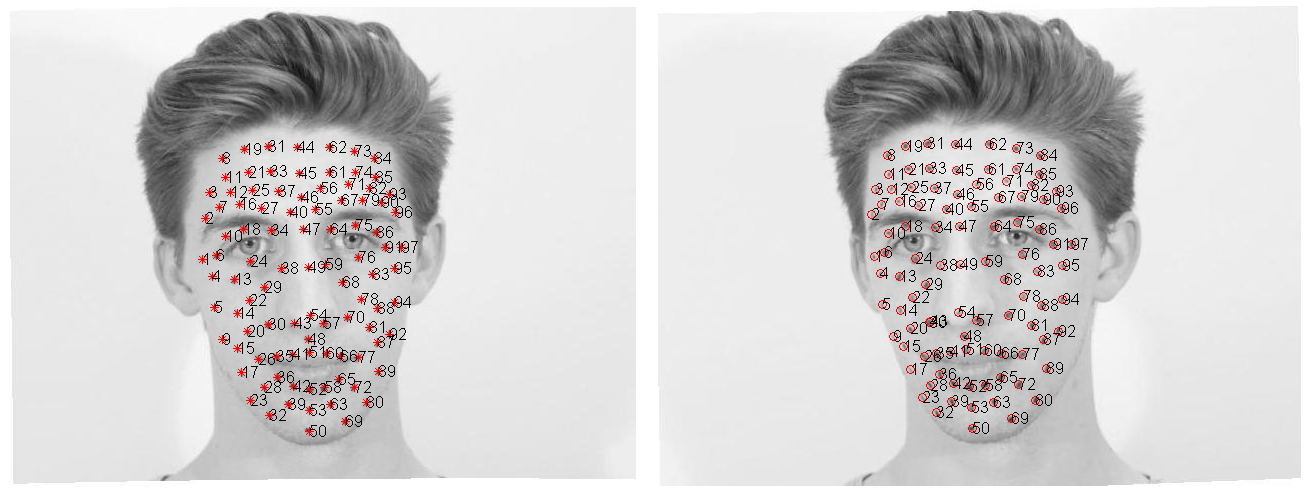
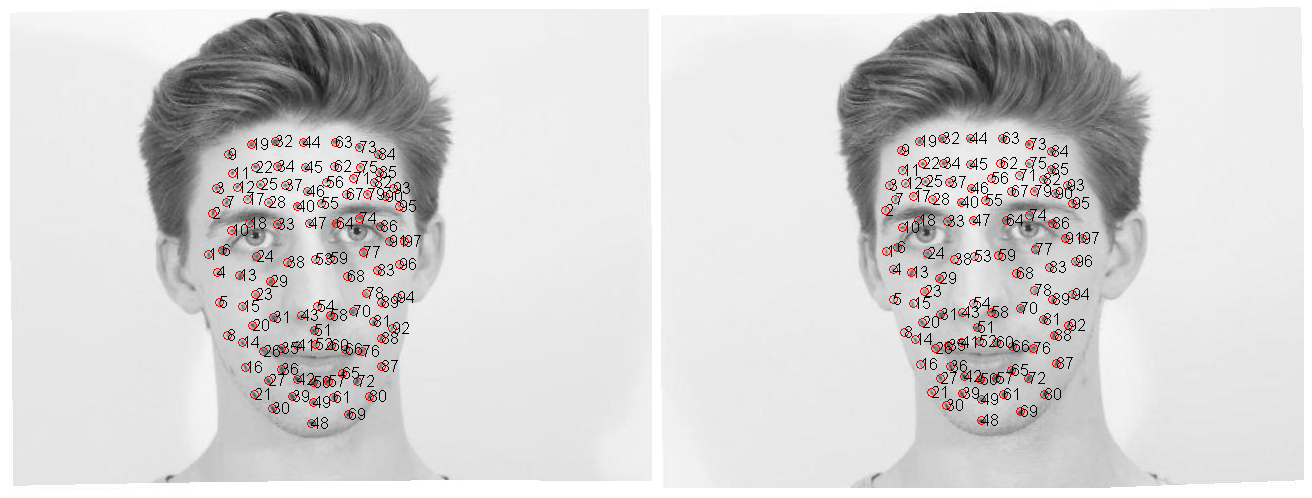
Added to my section, changed some images

Changed region(s): [[0.6107, 0.0, 0.8855, 0.9054], [0.0916, 0.0302, 0.3359, 0.9054], [0.6412, 0.9356, 0.6718, 0.9658]]

diff --git a/Report/v1/methodology.tex b/Report/v1/methodology.tex
@@ -14,28 +14,28 @@ This section presents the methodology behind our proposed facial performance cap
 \section{Data Capture} 
 \label{sec:datacapture}
 
-The first task was to gather some initial input data for the system by recording the facial performance of an actor in the form of a video sequence. Two DSLR cameras were positioned close to the actor's face in a stereo configuration in order to capture the actor's facial performance, as shown in Figure \ref{fig:setup1}. A short sequence, consisting of the actor pulling a number of facial expressions and then talking, was recorded on video with a resolution of $640 \times 480$ at 60fps. The video streams were roughly synchronised afterwards during post-processing in the computer by aligning the two separate audio signals. A relatively low image resolution was chosen in order to try to limit the amount of video data we had to deal with, especially when recording sequences at higher frame-rates. The cameras were fixed on stands to prevent any camera-shake during the performance capture session and calibration process - since it is important that the camera positions remain static for accurate 3D reconstruction. Positioning the cameras close to one another, at approximately 10cm horizontal separation and at a distance of about 1m from the subject, meant that the images from both views would be quite similar - allowing for easier feature matching across the two images. However, the camera spacing was sufficiently large to enable both sides of the face to be in view, and to allow for triangulation of points on the actor's face; a good rule of thumb is for the cameras and subject to subtend an angle of at least 5 degrees.
+The first task was to gather some initial input data for the system by recording the facial performance of an actor in the form of a video sequence. Two DSLR cameras were positioned close to the actor's face in a stereo configuration in order to capture the actor's facial performance, as shown in Figure \ref{fig:setup1}. A short sequence, consisting of the actor pulling a number of facial expressions and then talking, was recorded on video with a resolution of $640 \times 480$ at 60fps. The video streams were roughly synchronised afterwards during a post-processing stage in the computer by aligning the two separate audio signals. The video was also converted into an image sequence of jpeg images. A relatively low image resolution was chosen in order to try to limit the amount of video data we had to deal with, especially when recording multiple sequences at high frame-rates. The cameras were fixed on stands to prevent any camera-shake during the performance capture session and calibration process - since it is important that the camera positions remain static for accurate 3D reconstruction. Positioning the cameras close to one another, at approximately 10cm horizontal separation and at a distance of about 1m from the subject, meant that the images from both views would be quite similar - allowing for easier feature matching across the two images. However, the camera spacing was sufficiently large to enable both sides of the face to be in view, and to allow for 3D triangulation of points on the actor's face; a good rule of thumb is for the cameras and subject to subtend an angle of at least 5 degrees. A limitation with the capture system was observed that if the actor rotated his/her head significantly, then one side of the face would be occluded, making detection and reconstruction of some marker points on the face a problem. In a future implementation it would be better to use three cameras - one straight on and the other two slightly to the sides, so that all points on the face can always be seen by at least two cameras.
 
 \begin{figure}[htbp!]
 \centering
 \includegraphics[width=\textwidth]{img/setup1}
-	\caption{The stereo camera setup used to capture the facial performance.}
+	\caption{The stereo camera setup used to capture the actor's facial performance.}
 	\label{fig:setup1}
 \end{figure}
 
-Markers used to track the facial performance were placed on the actor's face in the configuration shown in Figure \ref{fig:facemarkers}. 97 markers were used in total, and were drawn onto the actor's face with a make-up pencil so as to be easily removed after the capture session. The positions of the markers were roughly based on those used in the Surrey Audio-Visual Expressed Emotion (SAVEE) Database ~\cite{Surrey}, as shown in Figure \ref{fig:surreydata}, although they use fewer markers with just 60 in total. In hindsight, using slightly fewer number of markers in our system might have been preferable, as consistently detecting and tracking a large number of markers (and preserving the labelling order of the markers) became quite a time-consuming and labour intensive process, prone to error. Furthermore, rather than simply using a black pencil, it might have advantageous to use markers of a significantly different colour to the tones of the human face in order to aid marker detection and tracking, or perhaps even using retro-reflective markers as in many commercial motion capture systems ~\cite{Vicon}.
+Markers used to track the facial performance were placed on the actor's face in the configuration shown in Figure \ref{fig:facemarkers}. 97 markers were used in total, and were drawn onto the actor's face with a make-up pencil so as to be easily removed after the capture session. The positions of the markers were roughly based on those used in the Surrey Audio-Visual Expressed Emotion (SAVEE) Database ~\cite{Surrey}, as shown in Figure \ref{fig:surreydata}, although they use fewer markers with just 60 in total. In hindsight, using slightly fewer number of markers in our system might have been preferable, as consistently detecting and tracking a large number of markers (and preserving the labelling order of the markers) became quite a time-consuming and labour intensive process, prone to error. Furthermore, rather than simply using a black pencil, it might have advantageous to use markers of a significantly different colour to the tones of the human face in order to aid marker detection and tracking (by colour segmentation), or perhaps even using retro-reflective markers as in many commercial motion capture systems ~\cite{Vicon}.
 
-Although the markers were placed all over the face to capture full facial performance, we tried to ensure that specific markers were placed in positions on the face which exhibit large non-rigid deformation, such as around the eyes, around the mouth and along the eye-brows, in order capture the full expressiveness of the face. In a future implementation, it would be useful to track the rigid head motion by tracking the positions of a number points on the head of the actor, for example by making the actor wear a skull cap with markers. Another useful addition would be to somehow track the eyelids so we can capture subtle eye movements and blinks. Also, since we only track points on the outside of the mouth, we do not gather information about the lip movement, such as expressions involving pursing or funnelling of the lips, etc.
+Although the markers were placed all over the face to capture full facial performance, we tried to ensure that specific markers were placed in positions on the face which exhibit large non-rigid deformation, such as around the eyes, around the mouth and along the eye-brows, in order capture the full expressiveness of the face. In a future implementation, it would also be useful to track the rigid head motion by tracking the positions of a number points on the head of the actor, for example by having the actor wear a skull cap with markers. None of the marker positions we chose on the face are truly rigid - so this made removing rigid head movement more of a challenge later, see Section \ref{sec:stabilising_head_movement}. Another useful addition would be to somehow track the eyelids so we can capture subtle eye movements and blinks. Also, since we only track points on the outside of the mouth, we do not gather information about the lip movement, such as in expressions involving pursing or funnelling of the lips, etc.
 
 \begin{figure}[htbp!]
-\begin{minipage}[b]{0.47\textwidth}
+\begin{minipage}[b]{0.42\textwidth}
 \centering
 \includegraphics[width=\textwidth]{img/facemarkers}
 	\caption{ The configuration of markers used for tracking the facial performance of the actor.}
 	\label{fig:facemarkers}
 \end{minipage}
 \hfill
-\begin{minipage}[b]{0.5\textwidth}
+\begin{minipage}[b]{0.48\textwidth}
 \centering
 \includegraphics[width=\textwidth]{img/surreydata}
 	\caption{ Images from the Surrey Audio-Visual Expressed Emotion (SAVEE) Database ~\cite{Surrey}.}
@@ -46,9 +46,9 @@ Although the markers were placed all over the face to capture full facial perfor
 
 \section{Camera Calibration}
 
-Once we had obtained a video sequence of the actor's face, the next stage was to calibrate the stereo camera system in order to obtain accurate 3D coordinates of the markers on the face. 
+Once we had obtained a video sequence of the actor's facial performance, the next stage was to calibrate the stereo camera system in order to obtain accurate 3D coordinates of the markers on the face. 
 
-Camera calibration is name given to the process of recovering the camera projection matrix $\vect{P}$ from images of a controlled scene. We assume the pinhole camera model and under perspective projection the map between the three-dimensional world coordinates of a point $(X, Y, Z)^T$ and its two-dimensional image pixel coordinates $(u, v)^T$ is a linear mapping in homogeneous coordinates represented by the $3 \times 4$ projection matrix:
+Camera calibration is name given to the process of recovering the camera projection matrix $\vect{P}$ from images of a controlled scene. We assume the pinhole camera model and under perspective projection the map between the three-dimensional world coordinates of a point $(X, Y, Z)^T$ and its two-dimensional image pixel coordinates $(u, v)^T$ is a linear mapping in homogeneous coordinates represented by the $3 \times 4$ projection matrix \cite{Cipolla:2000}:
 
 \begin{equation}
 \label{projection}
@@ -71,7 +71,7 @@ Camera calibration is name given to the process of recovering the camera project
       Z \\
       1
     \end{array}
-    \!\right)
+    \!\right).
 \end{equation}
 
 To obtain an estimate of the camera projection matrices for both cameras, we use a checkerboard pattern of known dimensions held in a number of different positions and orientations throughout the scene, in view of both cameras simultaneously, as shown in Figure \ref{fig:checkerboard}. To perform the calibration, we made use of the Camera Calibration Toolbox for Matlab \cite{Calib} provided by Jean-Yves Bouguet, which automatically detects the grid corners in each image and solves for the intrinsic camera parameters (focal length, principle point, and distortion coefficients) and the extrinsic parameters (rigid rotation and translation). It was important to ensure that the checkboard remained within the frame of both cameras during the entire calibration process, and that the camera positions did not move between the performance capture session and the calibration procedure. 
@@ -79,13 +79,13 @@ To obtain an estimate of the camera projection matrices for both cameras, we use
 \begin{figure}[htbp!]
 \centering
 \includegraphics[width=0.9\textwidth]{img/calib2}
-	\caption{A checkerboard pattern was used to calibrate the pair of stereo cameras. The checkerboard had to be visible from both camera viewpoints simultaneously.}
+	\caption{A checkerboard pattern was used to calibrate the pair of stereo cameras. For stereo calibration the checkerboard must be visible from both camera viewpoints simultaneously.}
 	\label{fig:checkerboard}
 \end{figure}
 
 As a result of the stereo calibration, we obtain an estimate of the intrinsic matrices $\vect{K}$, $\vect{K}'$ and external parameters $\vect{R}$, $\vect{t}$ of the two cameras, from which we can compute the camera projection matrices $\vect{P}$ and $\vect{P}'$ for the left and right cameras respectively using the equation for perspective projection:
 
-\begin{equation*}
+\begin{equation}
 \label{qrdecomp}
 	\left(\!
     \begin{array}{c}
@@ -103,9 +103,9 @@ As a result of the stereo calibration, we obtain an estimate of the intrinsic ma
       1
     \end{array}
     \!\right) 		 
-\end{equation*}
+\end{equation}
 
-\begin{equation*}
+\begin{equation}
 \left(\!
     \begin{array}{c}
       su \\
@@ -131,11 +131,11 @@ As a result of the stereo calibration, we obtain an estimate of the intrinsic ma
       1
     \end{array}
     \!\right)
-\end{equation*}
+\end{equation}
 
 where the left camera is assumed to be centred at the origin and aligned with the world co-ordinate axes, i.e. its projection matrix is $\vect{P} = \vect{K} [\vect{I} | \vect{0}]$, and the right camera projection matrix is expressed as $\vect{P}' = \vect{K}' [\vect{R} | \vect{t}]$.
 
-The resulting extrinsic parameters, describing the rotation $\vect{R}$ and translation $\vect{t}$ between the two camera views, are visualised in Figure \ref{fig:calib}. The positions of the checkerboard used for calibration are also displayed.
+The resulting extrinsic parameters describing the rotation $\vect{R}$ and translation $\vect{t}$ between the two camera views are visualised in Figure \ref{fig:calib}, where the scale in mm. The positions of the checkerboard used for calibration are also displayed. We can see that the cameras are roughly 10cm apart and about 1m from the checkerboard pattern as expected.
 
 \begin{figure}[htbp!]
 \centering
@@ -144,13 +144,13 @@ The resulting extrinsic parameters, describing the rotation $\vect{R}$ and trans
 	\label{fig:calib}
 \end{figure}
 
-From the estimated projection matrices, we can compute an estimate of the fundamental matrix $\vect{F}$ relating the two camera views. The fundamental matrix encapsulates the intrinsic epipolar geometry algebraically and is defined by the following equation:
+From the estimated projection matrices, we can compute an estimate of the fundamental matrix $\vect{F}$ relating the two camera views. The fundamental matrix encapsulates the intrinsic epipolar geometry algebraically and is defined by the following equation \cite{Luong1996}:
 
-\begin{equation*}
+\begin{equation}
 \vect{u'}^T \vect{Fu} = 0
-\end{equation*}
+\end{equation}
 
-\begin{equation*}
+\begin{equation}
 (u' v' 1)
     \begin{bmatrix}
     f_{11} & f_{12} & f_{13} \\
@@ -164,7 +164,7 @@ From the estimated projection matrices, we can compute an estimate of the fundam
    	 1  
     \end{array}
     \!\right) = 0
-\end{equation*}
+\end{equation}
 
 where $\vect{u} = (u,v,1)^T$ and $\vect{u}'= (u',v',1)^T$ are the 2D pixel coordinates of the same 3D world point imaged in the left and right views respectively. The fundamental matrix $\vect{F}$ is a $3 \times 3$ matrix, so has 9 elements but only has 7 DoF. This is because it has arbitrary scale, leaving 8 DoF, and is of rank 2 and singular, i.e. $\mathrm{det} [\vect{F}] = 0$, leaving 7 DoF. Using the fundamental matrix relation, the equation of the epipolar line in the right image $\vect{l}'$ corresponding to the point $\vect{u}$ in the left image, on which the feature point must lie, is therefore given by the following expression
 
@@ -174,18 +174,18 @@ where $\vect{u} = (u,v,1)^T$ and $\vect{u}'= (u',v',1)^T$ are the 2D pixel coord
 
 Similarly, the epipolar line $\vect{l}$ in the left image is given by
 
-\begin{equation*}
+\begin{equation}
 \vect{l} = \vect{F}^T \vect{u}'
-\end{equation*} 
+\end{equation} 
 
 The left and right epipoles $\vect{e}$ and $\vect{e}'$ are defined as the point in each image which is common to all the epipolar lines and are given by the null spaces of $\vect{F}$ and $\vect{F}^T$ respectively
 
-\begin{equation*}
+\begin{equation}
 \vect{Fe} = \vect{0} \ \ \ \ \ \ \
 \vect{F}^T\vect{e}' = \vect{0}
-\end{equation*} 
+\end{equation} 
 
-With the epipolar geometry fully defined, we can then rectify the stereo images for every frame of the captured image sequence so that the eipolar lines are horizontal. This reduces the stereo matching problem to a 1D search problem, as the same 3D world point imaged in both cameras is constrained to lie on the same pixel row in each pair of images. To rectify each pair of stereo images we implemented a function in Matlab \texttt{StereoRectify.m}, based on the function \texttt{rectify\_stereo\_pair.m} provided in the Camera Calibration Toolbox for Matlab \cite{Calib} which rectifies each pair of calibration images. This works as follows: we first bring the two cameras into the same orientation by rotating them 'minimally', so as to bring the translation vector $\vect{t}$ in alignment with the positive $x$-axis $(1,0,0)^T$. Global rotations are applied to both cameras so that the resulting rigid motion between the cameras is just a translation and the rotation matrix becomes $\vect{R} = \vect{I}$. The vertical component of the estimated focal length $f_u$ must be the same in both images and we set the horizontal focal length $f_v$ to the same as the vertical, resulting in square pixels, and new principle points are chosen to be the average of the two principle points. New camera projection matrices are computed accordingly and we warp each image so that the epipolar lines are horizontal. A pair of rectified images for a frame of the captured image sequence is shown in Figure \ref{fig:epipolarlines}. Matching image points and their corresponding epipolar lines are plotted.
+With the epipolar geometry fully defined, we can then rectify the stereo images for every frame of the captured image sequence so that the eipolar lines are horizontal. This reduces the stereo matching problem to a 1D search problem, as the same 3D world point imaged in both cameras is constrained to lie on the same pixel row in each pair of images. To rectify each pair of stereo images we implemented a function in \Matlab called \texttt{StereoRectify.m}, based on the function \texttt{rectify\_stereo\_pair.m} provided in the Camera Calibration Toolbox for \Matlab \cite{Calib} which rectifies each pair of calibration images. This works as follows: we first bring the two cameras into the same orientation by rotating them `minimally', so as to bring the translation vector $\vect{t}$ in alignment with the positive $x$-axis $(1,0,0)^T$. Global rotations are applied to both cameras so that the resulting rigid motion between the cameras is just a translation and the rotation matrix becomes $\vect{R} = \vect{I}$. The vertical component of the estimated focal length $f_u$ must be the same in both images and we set the horizontal focal length $f_v$ to the same as the vertical, resulting in square pixels, and new principle points are chosen to be the average of the two principle points. New camera projection matrices are computed accordingly and we warp each image so that the epipolar lines are horizontal. A pair of rectified images for a frame of the captured image sequence is shown in Figure \ref{fig:epipolarlines}. Matching image points and their corresponding epipolar lines are plotted. We can see that all the epipolar lines are now horizontal and corresponding points lie on the same pixel row. Therefore, to find matching points in the images we can simply search along the row until a match is found. We apply this warping procedure to all image frames in the captured sequence, resulting in a new stereo-rectified image sequence.
 
 \begin{figure}[htbp!]
 \centering
@@ -196,15 +196,18 @@ With the epipolar geometry fully defined, we can then rectify the stereo images 
 
 \section{Initial Marker Detection}
 
-With the stereo camera system fully calibrated, the next task is to compute the 2D image positions of all the facial markers in each left and right stereo pair for all frames in the captured sequence. Before the markers can be tracked through the sequence, their positions need to be initialised in the first frame. We do this by semi-automatically detecting the facial markers in the left image of the first frame, and then compute the corresponding marker positions in the right image. The initial marker detection is achieved by detecting SIFT features in the left image. We employ the open source Matlab implementation VLFeat \cite{vedaldi08vlfeat} to do this. 
+With the stereo camera system fully calibrated, the next task is to compute the 2D image positions of all the facial markers in each left and right stereo pair for all frames in the captured sequence. Before the markers can be tracked through the sequence, their positions need to be initialised in the first frame. We do this semi-automatically, by detecting the facial markers in the left image of the first frame, and then computing the corresponding marker positions in the right image. The initial marker detection is achieved by detecting SIFT features in the left image. We employ the open source \Matlab implementation VLFeat \cite{vedaldi08vlfeat} to do this. 
 
-The marker detection process for the first frame of a given stereo image sequence is carried out as follows. First the user defines a region of interest in the left image around the face of the actor to be tracked, by drawing a contour in the image. We make use of the Matlab function \texttt{roipoly} for this, as shown in left image in Figure \ref{fig:detection}. Then, SIFT features are detected within the selected image region, choosing the appropriate SIFT parameters to pick out features of the correct scale; around 5 pixels in diameter - this may take a few tries to get right. We found that it was quite difficult to pick out just the marker features because the size of the markers varied a lot, and so to detect most of the markers we had to search for a wide range of scales of SIFT features. This can be seen in the middle image of Figure \ref{fig:detection}, where running the SIFT feature detection has picked out a lot of other unwanted points. However, we found that it was still faster and often more accurate to detect points this way and refine the detection after, rather than manually select all 97 points by hand.
+The marker detection process for the first frame of a given stereo image sequence is carried out as follows. First the user defines a region of interest in the left image around the face of the actor to be tracked, by drawing a contour in the image. We make use of the \Matlab function \texttt{roipoly} for this, as shown in left image in Figure \ref{fig:detection}. Then, SIFT features are detected within the selected image region, choosing the appropriate SIFT parameters to pick out features of the correct scale; around 5 pixels in diameter - this may take a few tries to get right. We found that it was quite difficult to pick out just the marker features because the size of the markers varied significantly, and so to detect the majority of the markers we had to search for a wide range of scales of SIFT features. This can be seen in the middle image of Figure \ref{fig:detection}, where running the SIFT feature detection has picked out a lot of other unwanted points, particularly around the eyes and mouth. However, we found that it was still faster and often more accurate to detect points this way using SIFT and then refine the detection after, rather than manually select all 97 points by hand. Once reasonable SIFT features have been detected, additional feature points can then be added manually, and also wrongly detected points can be removed, by interactively selecting certain points the user wishes to change. We implemented a piece of code to allow the user to simply click on marker points they want to remove or add. This gives the resulting initial marker positions in the left image as shown on the right in Figure \ref{fig:detection}. 
 
-Once reasonable SIFT features have been detected, additional feature points can then be added manually, and also wrongly detected points can be removed, by interactively selecting certain points the user wishes to change. This gives the resulting initial marker positions in the left image as shown on the right in Figure \ref{fig:detection}. 
+\begin{figure}[htbp!]
+\centering
+\includegraphics[width=\textwidth]{img/detection}
+	\caption{Facial markers are detected by first selecting a region of interest, detecting SIFT features, and then removing unwanted points or adding additional points. The final points are plotted in red on the right.}
+	\label{fig:detection}
+\end{figure}
 
-Once the user has successfully detected all 97 facial markers in the left image, the corresponding marker positions are found in the right image by searching along the corresponding epipolar lines; simply the same row of pixels in the right image since all the images have been stereo rectified beforehand. The matching marker positions in the right image are found by computing the normalised cross-correlation (NCC) between image patches, as given in Equation \ref{eq:NCC}. So that for each marker point $\vect{u}$ in the left image we take the surrounding square patch of $N$ pixels and compute the NCC with each $N$ pixel patch in the right image, for all pixels in the same row. $I_i^L$ is the intensity of pixel $i$ in an image patch in the left image, and similarly $I_i^R$ in the right image. $\mu^L$, $\mu^R$, $\sigma^L$, and $\sigma^R$ are the means and standard deviations of pixel intensities in image patches in the left and right images respectively. The pixel location in the right image that produces the maximum response is chosen as the matching marker position to the marker in the left image. Since the two views are similar, we also apply the constraints that corresponding marker positions must lie close to each other in the two images (within some threshold distance) and that the order of the markers must be maintained, i.e. if a marker is to the left of another in one image, it must be to the left of the corresponding marker in the other image. 
-
-This produces the result shown in Figure \ref{fig:matching}, where all markers in the left image are matched to corresponding markers in the right image. The markers are numbered from 1 to 97 to illustrate this. The ordering of the marker indices in the left image is arbitrary (simply numbered from left to right in the image), but the markers in the right image must adhere to this ordering and maintain the same order as they are tracked throughout the entire image sequence. 
+Once the user has successfully detected all 97 facial markers in the left image, the corresponding marker positions are found in the right image by searching along the corresponding epipolar lines; simply the same row of pixels in the right image since all the images have been stereo rectified beforehand. The matching marker positions in the right image are found by computing the normalised cross-correlation (NCC) between image patches, as given in Equation \ref{eq:NCC}. So that for each marker point $\vect{u}$ in the left image we take the surrounding square patch of $N$ pixels and compute the NCC with each $N$ pixel patch in the right image, for all pixels in the same row. $I_i^L$ is the intensity of pixel $i$ in an image patch in the left image, and similarly $I_i^R$ in the right image. $\mu^L$, $\mu^R$, $\sigma^L$, and $\sigma^R$ are the means and standard deviations of pixel intensities in image patches in the left and right images respectively. The pixel location in the right image that produces the maximum NCC response is chosen as the matching marker position to the marker in the left image. Since the two views are similar, we also apply the constraints that corresponding marker positions must lie close to each other in the two images (within some threshold distance) and that the order of the markers on the plane of the face must be maintained, i.e. if a marker is to the left of another in one image, it must also be to the left of the corresponding marker in the other image. 
 
 \begin{equation}
 \label{eq:NCC}
@@ -213,12 +216,7 @@ This produces the result shown in Figure \ref{fig:matching}, where all markers i
 \end{aligned}
 \end{equation}
 
-\begin{figure}[htbp!]
-\centering
-\includegraphics[width=\textwidth]{img/detection}
-	\caption{Facial markers are detected by first selecting a region of interest, detecting SIFT features, and then removing unwanted points or adding additional points.}
-	\label{fig:detection}
-\end{figure}
+This produces the result shown in Figure \ref{fig:matching}, where all markers in the left image are matched to corresponding markers in the right image. The markers are numbered from 1 to 97 to illustrate this. The ordering of the marker indices in the left image is arbitrary (simply numbered from left to right as they appear in the image), but the markers in the right image must adhere to this ordering and maintain the same order as they are tracked throughout the entire image sequence.  
 
 \begin{figure}[htbp!]
 \centering
@@ -233,21 +231,21 @@ With all 97 facial markers initialised in both stereo images for the first frame
 
 \subsection{Optical Flow}
 
-The first method we explored for tracking was to simply compute the optical flow for the image sequence, from one frame to the next, and to move the positions of all the markers along the direction of the flow. Optical flow is based on the assumption that the pixel intensity of the same imaged 3D point will be similar from one frame to the next, i.e.
+The first method we explored for tracking was to simply compute the global optical flow for the image sequence, from one frame to the next, and to move the positions of all the markers along the direction of the flow. Optical flow algorithms are commonly based on the assumption that the pixel intensity of the same imaged 3D point will be similar from one image frame to the next, i.e.
 
 \begin{equation}
 \label{eq:opticalflow}
 \begin{aligned}
-I(\vect{u}_i, t) = 
-I(\vect{u}_i + \vect{v}_i, t+1)
+I(\vect{u}, t) = 
+I(\vect{u} + \vect{v}, t+1)
 \end{aligned}
 \end{equation}
 
-We made use of two high-performing optical flow Matlab implementations to do this, namely C. Lui's optical flow code \cite{Lui:2011} and M. Black's implementation \cite{Black:2010}. However, we found that simply tracking the points in this way was not robust enough to coherently track markers on the face, particularly when the actor made fast facial movements such as opening and closing the mouth during speech. Even at 60fps, these fast facial movements resulted in slightly blurred image frames causing the point tracking to go awry, even after just a small number of frames.
+where $I(\vect{u}, t)$ is the intensity at pixel $\vect{u}$ in the image at time $t$, and $\vect{v}$ is the 2D flow or displacement vector, however this assumption rarely holds exactly. We made use of two high-performing optical flow Matlab implementations to do this, namely C. Lui's optical flow code \cite{Lui:2011} and M. Black's implementation \cite{Black:2010}. However, we found that simply tracking the points in this way was not robust enough to coherently track all the markers on the face, particularly when the actor made fast facial movements such as opening and closing the mouth during speech. Even when recording at 60fps, these fast facial movements resulted in slightly blurred image frames causing the point tracking to go awry, even after just a small number of frames. Furthermore these algorithms, although very sophisticated optical flow implementations, took far too long to compute for lengthy image sequences, so an alternative approach was required.
 
 \subsection{KLT Tracker}
 
-A more sophisticated method of tracking was then explored - the Kanade-Lucas-Tomasi (KLT) feature tracking algorithm \cite{Shi:1994}, which is implemented in Matlab \cite{KLTMatlab}. The KLT tracker employs a pyramidal image scale implementation to deal with a range of pixel displacements. We can define a residual function $\epsilon (\vect{v})$ to be:
+A more sophisticated method of tracking was then explored - the Kanade-Lucas-Tomasi (KLT) feature tracking algorithm \cite{Shi:1994}, which is implemented in Matlab \cite{KLTMatlab}. The KLT tracker solves for the flow iteratively and employs a pyramidal image scale implementation to deal with a range of pixel displacements. We can define a residual function $\epsilon (\vect{v})$ to be:
 
 \begin{equation}
 \label{eq:KLT}
@@ -271,11 +269,14 @@ We track the feature points from one frame to the next independently in both cam
 	\label{fig:tracking}
 \end{figure}
 
-We implemented a procedure in which if the KLT tracking starts to lose a point, the user can manually re-estimate the position of the point in the image. The tracking method we use is still not very robust, and it can be very difficult to obtain a good track for all 97 facial points over a large number of frames. One reason for this is because we are simply performing a global track of all points and not taking into account the local object information. For example, if we kept a running probabilistic model of the face points, the system would be able to handle occlusions and be more robust to tracking errors. One interesting approach is implemented by Li \textit{et al}. \cite{Li2013} which uses a mesh based object tracking method which would likely perform much better in this situation.
+We implemented a procedure in which if the KLT tracker starts to lose the tracking of a marker, the user can manually re-estimate the position of the marker in the image at that particular frame. The tracking then continues from that re-estimated point. The tracking method we use is still not very robust, and it can be quite difficult to obtain a good track for all 97 facial points over a large number of frames. One reason for this is because we are simply performing a global track of all points and not taking into account the local object information. For example, if we kept a running probabilistic model of the face points, the system would be able to handle occlusions and would be more robust to non-rigid movements and other sources of tracking error. One interesting approach is implemented by Li \textit{et al}. \cite{Li2013} that uses a mesh based object tracking method which would likely perform much better in this situation. They propose an underlying mesh which penalizes local movements and preserves smooth global ones. Constraints
+on the local deformations expressed in Laplacian coordinates
+encourage local regularity of the mesh whilst allowing
+global non-rigidity.
 
 \section{Sparse Facial Reconstruction}
 
-Once we have obtained the 2D image coordinates of the facial markers for every frame in a stereo image sequence, we then compute the sparse 3D reconstruction over the sequence. In one frame, given a pair of image correspondences $\vect{w} = (u,v,1)^T$ and $\vect{w}' = (u',v',1)^T$ of the same 3D point $\vect{X} = (X,Y,Z,1)^T$, we can write two equations using the projection matrices $\vect{P}$ and $\vect{P'}$:
+Once the tracking stage is complete and we have obtained the 2D image coordinates of the facial markers for every frame in a stereo image sequence, we then compute a sparse 3D reconstruction of the face over the sequence. In one frame, given a pair of image correspondences $\vect{u} = (u,v,1)^T$ and $\vect{u}' = (u',v',1)^T$, in the left and right views respectively, of the same 3D world point $\vect{X} = (X,Y,Z,1)^T$, we can write two equations using the projection matrices $\vect{P}$ and $\vect{P'}$:
 
 \begin{equation}
 \left(\!
@@ -310,15 +311,17 @@ Once we have obtained the 2D image coordinates of the facial markers for every f
     \end{array}
   	\!\right).
 \end{equation}
-For each pair of image points, two equations can be written:
 
-\begin{align*}
+For each image point in a pair stereo images we can write two equations:
+
+\begin{align}
 u &= \frac{p_{11}X + p_{12}Y + p_{13}Z + p_{14}}{p_{31}X + p_{32}Y + p_{33}Z + p_{34}} \ \  
 u' = \frac{p'_{11}X + p'_{12}Y + p'_{13}Z + p'_{14}}{p'_{31}X + p'_{32}Y + p'_{33}Z + p'_{34}}\\ 
 v &= \frac{p_{21}X + p_{22}Y + p_{23}Z + p_{24}}{p_{31}X + p_{32}Y + p_{33}Z + p_{34}} \ \ 
 v' = \frac{p'_{21}X + p'_{22}Y + p'_{23}Z + p'_{24}}{p'_{31}X + p'_{32}Y + p'_{33}Z + p'_{34}}
-\end{align*}
-Rearranging, these can be written in the form $\vect{AX} = 0$ as follows, where $\vect{p}_i$ denotes the $ith$ row of the projection matrix $\vect{P}$
+\end{align}
+
+Rearranging, these are expressed in the form $\vect{AX} = 0$ as follows, where $\vect{p}_i$ denotes the $i$th row of the projection matrix $\vect{P}$,
 
 \begin{equation}
 \begin{bmatrix}
@@ -336,7 +339,17 @@ Rearranging, these can be written in the form $\vect{AX} = 0$ as follows, where 
     \end{array}
   	\!\right) = 0.
 \end{equation}
-Two equations are acquired from each image point in the two views, giving a total of four equations with three unknowns - the problem is over-constrained. A linear least-squares solution can be found by performing Singular Value Decomposition on the matrix $\vect{A}$. The 3D coordinates of the point $\vect{X}$ are the singular vector corresponding to the smallest singular value of $\vect{A}$, i.e. the last column of the matrix $\vect{V}$, where $\vect{A} = \vect{UDV}^T$. This is implemented in Matlab in the function \texttt{Reconstruct.m}, which takes in the two camera projection matrices for a pair of stereo cameras and the matching 2D image points, and returns an array of corresponding 3D points.
+
+Since two equations are acquired from each image point in the two views, this gives a total of four equations with three unknowns - the problem is over-constrained. A linear least-squares solution can be found by performing Singular Value Decomposition on the matrix $\vect{A}$. The 3D coordinates of the point $\vect{X}$ are the singular vector corresponding to the smallest singular value of $\vect{A}$, i.e. the last column of the matrix $\vect{V}$, where $\vect{A} = \vect{UDV}^T$. This is implemented in Matlab in the function \texttt{Reconstruct.m}, which takes in the two camera projection matrices for the pair of stereo cameras obtained during the calibration procedure, and the matching 2D image points, returning an array of corresponding 3D points. Since the 2D marker positions have been forced to lie on corresponding epipolar lines, the epipolar cosntraint is satisfied and the camera rays that pass though each image point are constrained to intersect at a point in 3D space. 
+
+The resulting 3D reconstruction of the neutral facial expression is plotted in Figure \ref{fig:neutral3D}. The final face mesh is computed by performing a Delaunay triangulation \cite{Edelsbrunner2000} over the estimated vertices. This 3D reconstruction process is repeated for all frames in the recorded image sequence to produce a sparse 3D sequence of the actor's facial movements. A number of frames from the sequence are shown in Figure \ref{fig:faces}, along with their corresponding 3D reconstructions.
+
+\begin{figure}[htbp!]
+\centering
+\includegraphics[width=0.8\textwidth]{img/neutral3D}
+	\caption{A 3D reconstruction of the neutral facial expression.}
+	\label{fig:neutral3D}
+\end{figure}
 
 \begin{figure}[htbp!]
 \centering
@@ -348,7 +361,7 @@ Two equations are acquired from each image point in the two views, giving a tota
 \subsection{Stabilising Head Movement}
 \label{sec:stabilising_head_movement}
 
-It is important for the actor's head to remain still throughout the sequence so that the reconstructed facial expressions are expressed as true non-rigid deviations from the neutral facial expression. Proper stabilisation of the head is required to avoid artefacts in the resulting blendshape facial animation and retargeting process \cite{Beeler:2014}. If the rigid head movement is not removed, then the expression shapes will contain this 'baked-in' rigid motion, and any facial animation constructed from the expressions will also contain this unwanted rigid head motion. In industry, face-stabilisation is still usually performed manually; Weise \textit{et al}. \cite{Weise:2009} aim to remove the rigid motion component of multiple expressions using ICP registration and Vlasic \textit{et al}. \cite{Vlasic:2005} use Procrustes alignment.
+It is important for the actor's head to remain still throughout the sequence so that when solving for blendshapes (Section \ref{sec:Animation}), the reconstructed facial expressions are expressed as true non-rigid deviations from the neutral facial expression. Proper stabilisation of the head is required to avoid artefacts in the resulting blendshape facial animation and retargeting process \cite{Beeler:2014}. If the rigid head movement is not removed, then the expression shapes will contain this 'baked-in' rigid motion, and any facial animation constructed from the expressions will also contain this unwanted rigid head motion. In industry, face-stabilisation is still usually performed manually; Weise \textit{et al}. \cite{Weise:2009} aim to remove the rigid motion component of multiple expressions using ICP registration and Vlasic \textit{et al}. \cite{Vlasic:2005} use Procrustes alignment.
 
 In our implementation, we attempt to remove the majority of the actor's rigid head motion by performing a Procrustes analysis \cite{Gower:1975} using a number of approximately rigid points. At least four points are required for the Procrustes alignment. The rigid points were chosen to be the tops of the ears, the tip and bridge of the nose, and the centre point on the top of the forehead, as shown by the dots in Figure \ref{fig:procrustes}. However, none of these points are actually truly rigid, so this is just an approximation to the true stabilisation. In a future implementation, it would be better to actually track a few points known to be practically rigid, for example by placing markers on the top of the head. 
 
@@ -418,6 +431,7 @@ apply transformations\;
 The original ICP algorithm is limited to rigid transformations, i.e. rotation and translation, which have only $6$ degrees of freedom. However, in order to capture scaling, shearing and other more complicated transformation, an affine mapping should be used. Thus an extension of the ICP algorithm, called non-rigid ICP is used when additional degrees of freedom are present. Allen et al. proposed a non-rigid registration method that uses a numerically non-linear solver to find a smooth affine mapping~\cite{Allen:2003}. Additional constrained are imposed by manually matching some known marker locations in the two datasets. The method exhibits slow convergence and often leads to local minima; consequently, the authors use a multi-resolution approach where the optimisation is first performed on a low resolution mesh, and then optimised on the high resolution mesh. Amberg et al. combined the ICP algorithm with the method of Allen et al. to overcome the issues with convergence~\cite{Amberg:2007}.
 
 \subsection{Animation}
+\label{sec:Animation}
 The aim of this project is to used captured data of a face to animate a given model. We use the digital Emily model that comes with $68$ controllable blendshapes ranging from simple eyebrow movements to complicated lip corner pulls~\cite{Alexander:2009},~\cite{FaceWareRigsWeb}. Each blendshape has a weight $w_i$ associated with it, and $w_i \in [0,1]$. The model includes eyes and teeth. The aim is to find a combination of these blendshapes that produce a specified facial expression. In particular, we are interested in reproducing the captured sequence of expressions. 
 
 \subsubsection{Initial Approach}
